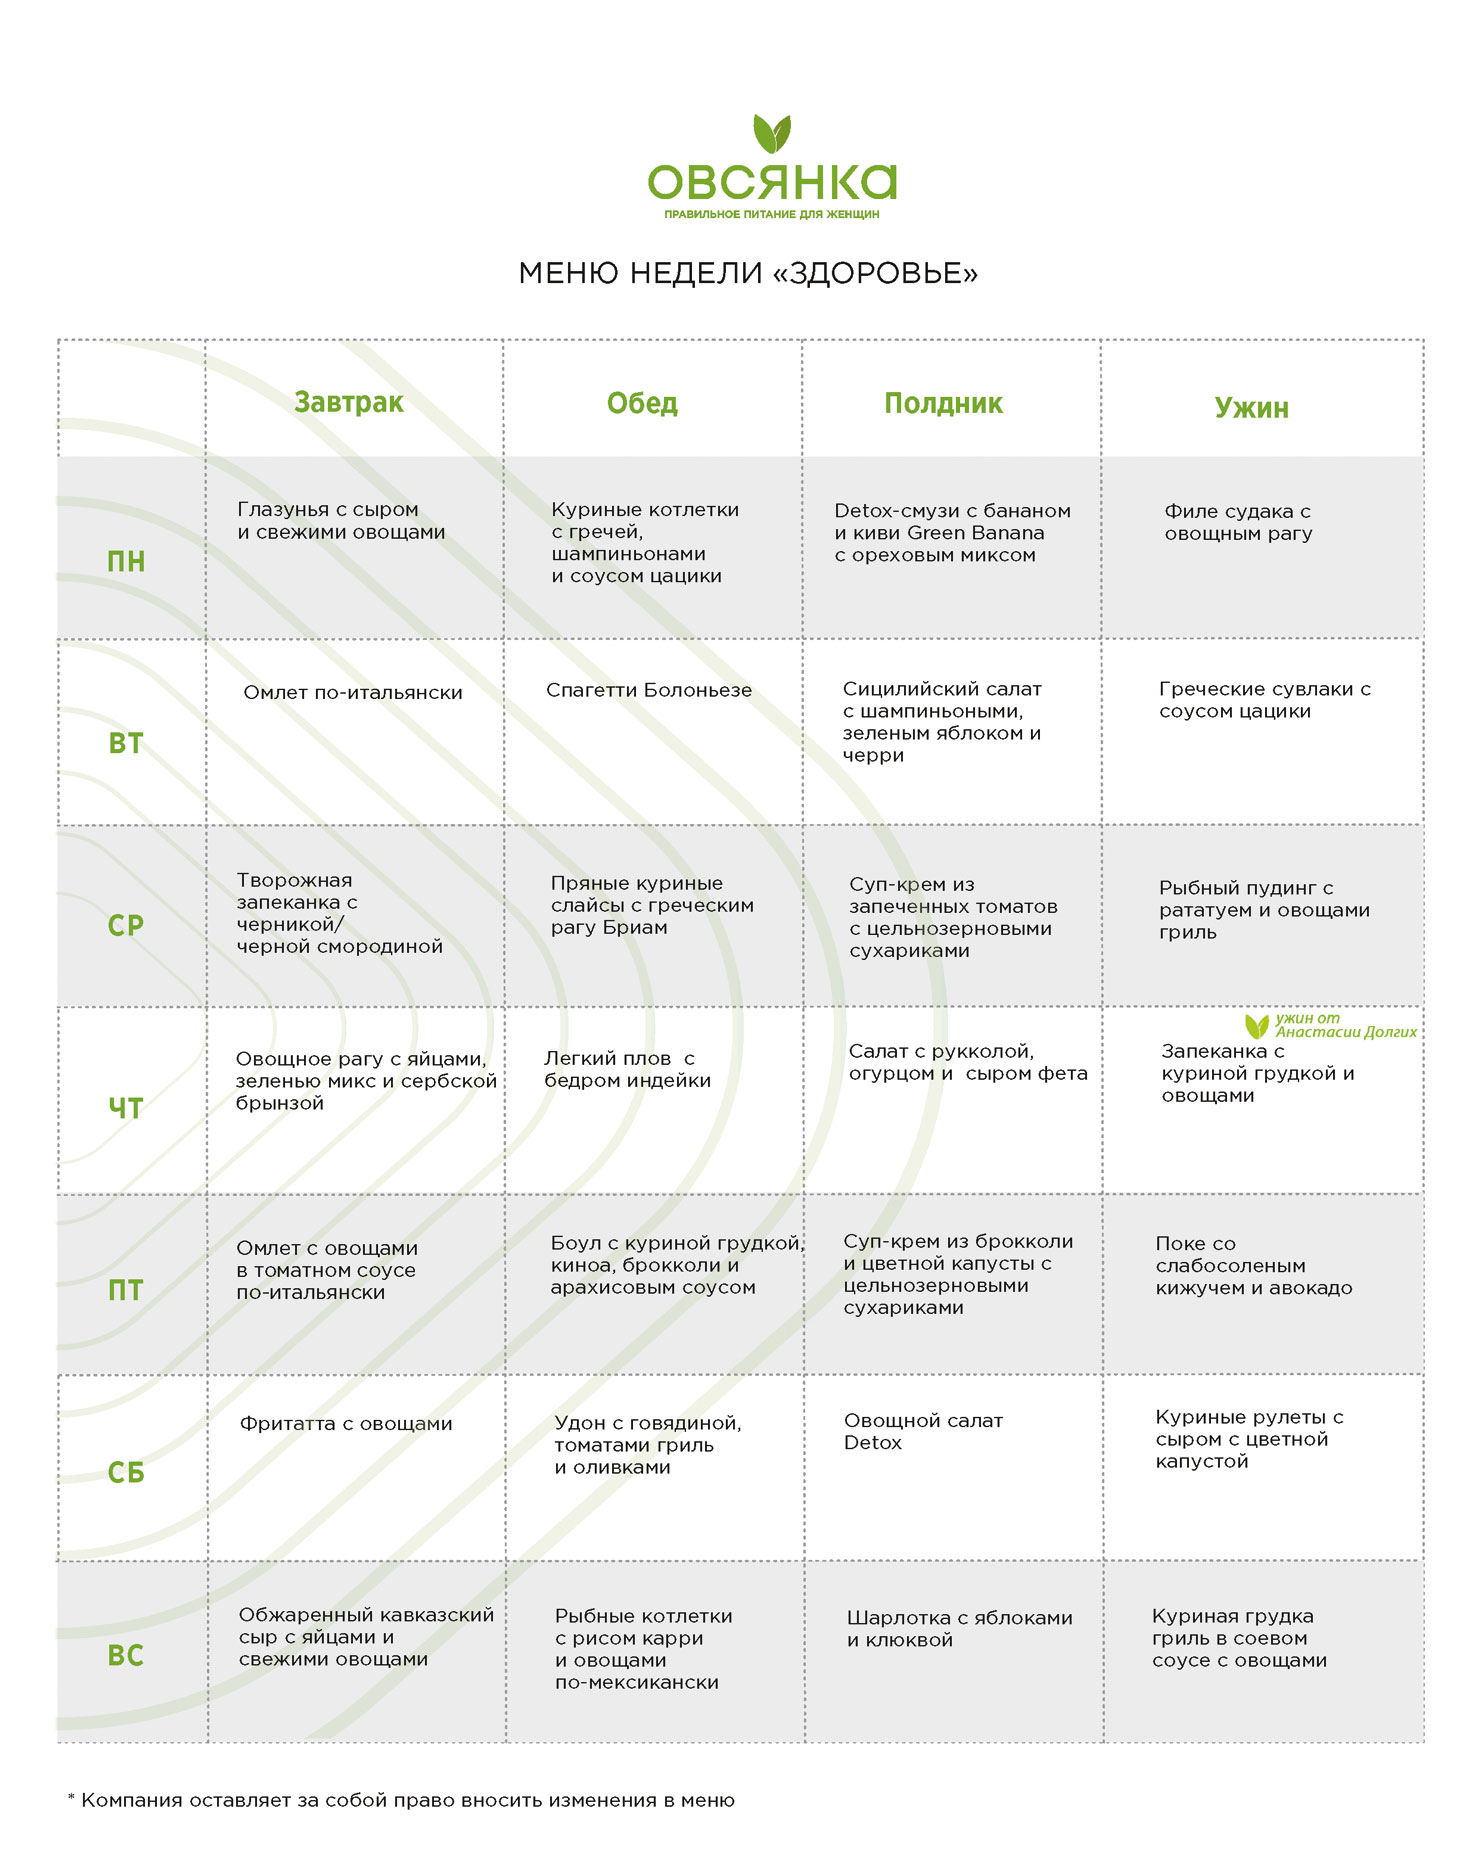
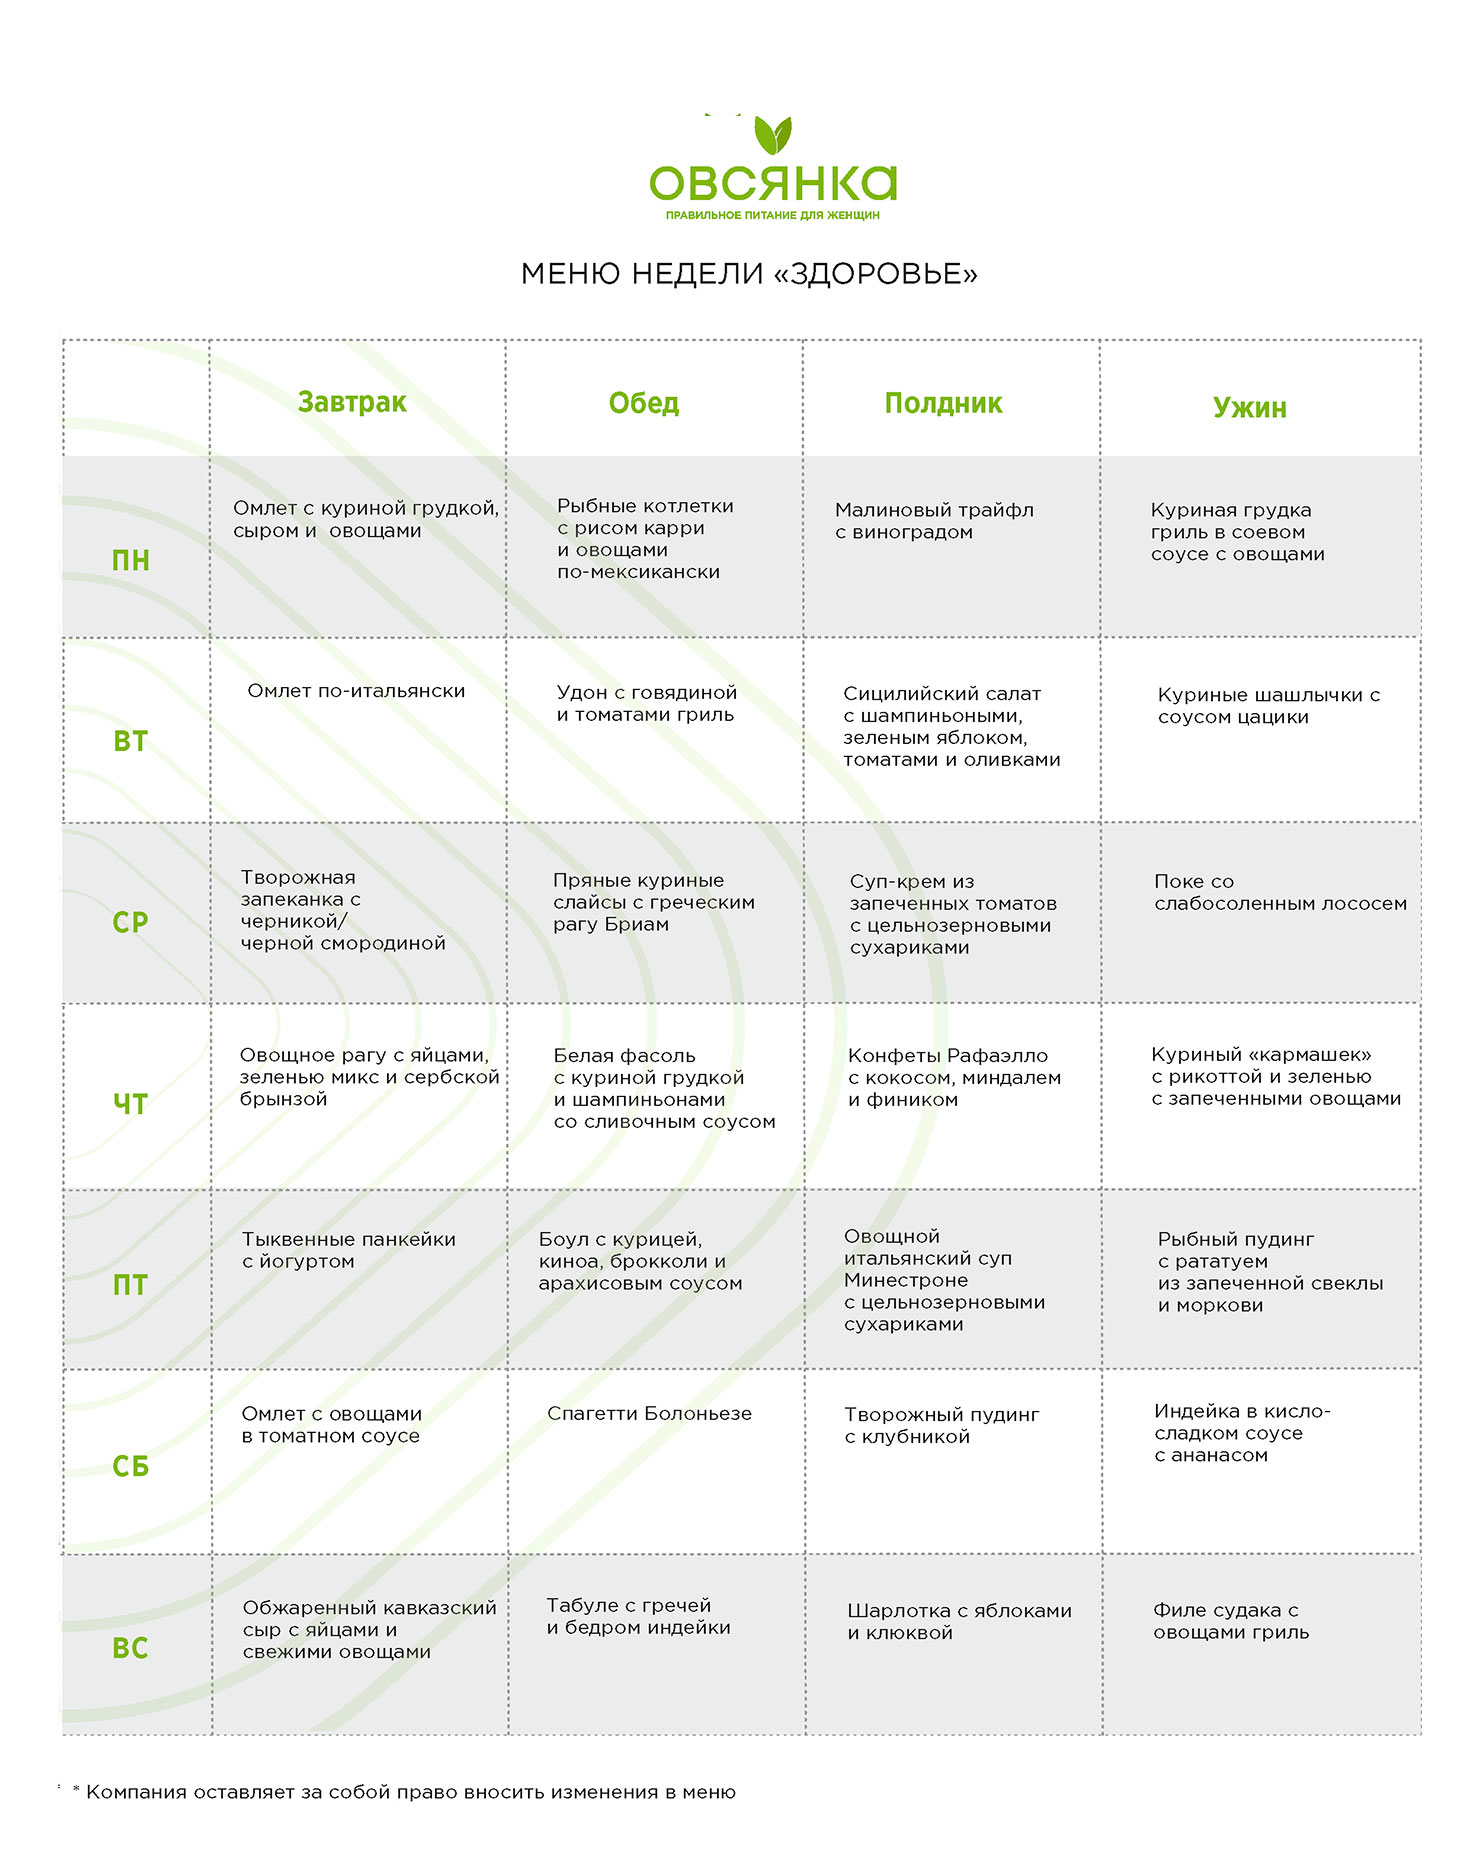
обновили меню и добавили блинчики

diff --git a/app/containers/HomePage/initData.js b/app/containers/HomePage/initData.js
@@ -420,47 +420,26 @@ export const catalog = {
       properties: 'КБЖУ 184 / 13 / 13 / 3 на 100 г.',
       priceProperties: ['695 руб / 8 шт.'],
     },
-    {
+	{
       id: 21005,
-      name: 'Сырники с курагой',
+      name: 'Белковые блинчики сладкие',
       cost: 595,
-	  kKal: '12 шт (540 г)',
-      image: 'sirn.kurag.obl.jpg',
-	  imageinside: 'sirn.inside.jpg',
-	  consist: 'Состав: творог, мука рисовая, яйцо, курага, мак, сахарозаменитель инулин, соль',
-      kbju: '157 / 15 / 6 / 11 на 100 г.',
-      title: 'Сырники с курагой',
+	  kKal: '8 шт (600 г)',
+      image: 'blins.obl.jpg',
+      imageinside: 'blins.inside.jpg',
+      title: 'Белковые блинчики сладкие ',
+	  consist: 'Состав: яйцо, творог, банан, клубника, аргентинский арахис сорта Runner, соль, подсолнечное масло',
+      kbju: '184 / 13 / 12 / 7 на 100 г.',
       amount: 1,
+      eloblclose: '132131',
       isHit: false,
-	  isNew: true,
+      isNew: true,
       totalCost: 595,
-      shortDescription: 'Состав: творог, мука рисовая, яйцо, курага, мак, сахарозаменитель инулин, соль',
+      shortDescription: 'Состав: яйцо, творог, банан, клубника, аргентинский арахис сорта Runner, соль, подсолнечное масло',
       description:
-        '12 шт по 45 гр. Масса нетто: 540+- 10 г. Срок хранения : 3 месяца при t= -18.',
-      properties:
-        'КБЖУ 157 / 15 / 6 / 11 на 100 гр.',
-      priceProperties: ['595 руб / 12 шт.'],
-    },
-    {
-      id: 21006,
-      name: 'Котлеты куриные',
-      cost: 595,
-	  kKal: '12 шт (500 г)',
-      image: 'kotleti.obl.jpg',
-	  imageinside: 'kotleti.inside.jpg',
-	  consist: 'Состав: филе куриной грудки, филе куриного бедра, кабачок, лук, соль, специи',
-      kbju: '160 / 23 / 7 /  1 на 100 г.',
-      title: 'Котлеты куриные',
-      amount: 1,
-      isHit: false,
-	  isNew: true,
-      totalCost: 595,
-      shortDescription: 'Состав: филе куриной грудки, филе куриного бедра, кабачок, лук, соль, специи',
-      description:
-        '12 шт. Масса нетто: 500+- 10 г. Срок хранения : 3 месяца при t= -18.',
-      properties:
-        'КБЖУ 160 / 23 / 7 /  1 на 100 гр.',
-      priceProperties: ['595 руб / 12 шт.'],
+        'Упаковка 600 г. 8 блинчиков (по 75 г каждый) Срок хранения : 3 месяца при t= -18.',
+      properties: 'КБЖУ 184 / 13 / 12 / 7 на 100 г.',
+      priceProperties: ['595 руб / 8 шт.'],
     },
   ],
   detox: {

diff --git a/app/containers/HomePage/HomePage.scss b/app/containers/HomePage/HomePage.scss
@@ -463,23 +463,6 @@ body {
 .book__slider .slick-list {height: 390px!important;}
 .book__slider .slick-arrow{display:none!important}
 
-.pf__slider .slick-list .slick-slide[data-index="-5"] {display: none;}
-.pf__slider .slick-list .slick-slide[data-index="-4"] {display: none;}
-.pf__slider .slick-list .slick-slide[data-index="-3"] {display: none;}
-.pf__slider .slick-list .slick-slide[data-index="-2"] {display: none;}
-.pf__slider .slick-list .slick-slide[data-index="-1"] {display: none;}
-.pf__slider .slick-list .slick-slide[data-index="4"] {display: none;}
-.pf__slider .slick-list .slick-slide[data-index="5"] {display: none;}
-.pf__slider .slick-list .slick-slide[data-index="6"] {display: none;}
-.pf__slider .slick-list .slick-slide[data-index="7"] {display: none;}
-.pf__slider .slick-list .slick-slide[data-index="8"] {display: none;}
-.pf__slider .slick-list .slick-slide[data-index="9"] {display: none;}
-.pf__slider .slick-list .slick-slide[data-index="10"] {display: none;}
-.pf__slider .slick-list .slick-slide[data-index="11"] {display: none;}
-.pf__slider .slick-list .slick-slide[data-index="0"] {display: block;}
-.pf__slider .slick-list .slick-slide[data-index="1"] {display: block;}
-.pf__slider .slick-list .slick-slide[data-index="2"] {display: block;}
-
 .program_text {
   font-family: 'GothamPro-Light';
   margin-bottom: 60px;
